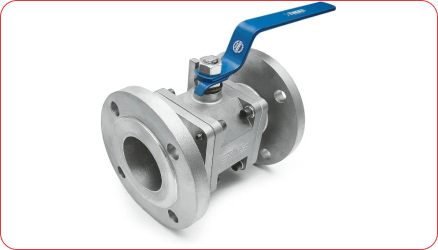
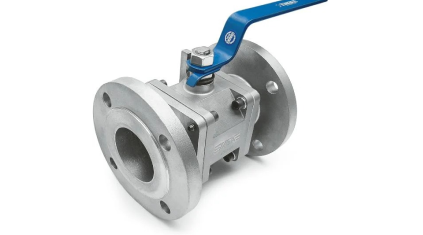
fixed images

Changed region(s): [[0.0, 0.0, 1.0, 1.0], [0.4917, 0.6851, 0.5532, 0.7745], [0.5839, 0.5362, 0.6147, 0.566]]

diff --git a/produtos/index.html b/produtos/index.html
@@ -39,6 +39,7 @@
     :where(.wp-block-columns.is-layout-flex){gap: 2em;}:where(.wp-block-columns.is-layout-grid){gap: 2em;}
     :root :where(.wp-block-pullquote){font-size: 1.5em;line-height: 1.6;}
 </style>
+<link rel="stylesheet" href="extra.css" class="css">
 <link rel='stylesheet' id='wp-components-css' href='../wp-includes/css/dist/components/style.min109c.css?ver=6.6.2' media='all' />
 <link rel='stylesheet' id='godaddy-styles-css' href='../wp-content/mu-plugins/vendor/wpex/godaddy-launch/includes/Dependencies/GoDaddy/Styles/build/latest4c56.css?ver=2.0.2' media='all' />
 <link rel='stylesheet' id='hello-elementor-css' href='../wp-content/themes/hello-elementor/style.minb12b.css?ver=3.1.1' media='all' />
@@ -63,6 +64,7 @@ media='all' />
 <link rel='stylesheet' id='elementor-icons-shared-0-css' href='../wp-content/plugins/elementor/assets/lib/font-awesome/css/fontawesome.min52d5.css?ver=5.15.3' media='all' />
 <link rel='stylesheet' id='elementor-icons-fa-solid-css' href='../wp-content/plugins/elementor/assets/lib/font-awesome/css/solid.min52d5.css?ver=5.15.3' media='all' />
 <link rel='stylesheet' id='elementor-icons-fa-brands-css' href='../wp-content/plugins/elementor/assets/lib/font-awesome/css/brands.min52d5.css?ver=5.15.3' media='all' />
+
 <link rel="preconnect" href="https://fonts.gstatic.com/" crossorigin>
 <link rel="https://api.w.org/" href="../wp-json/index.html" />
 <link rel="alternate" title="JSON" type="application/json" href="../wp-json/wp/v2/pages/111.json" />
@@ -73,6 +75,7 @@ media='all' />
 <link rel="alternate" title="oEmbed (JSON)" type="application/json+oembed" href="../wp-json/oembed/1.0/embed50c1.json?url=https%3A%2F%2Fcamaviacessorios.com%2Fprodutos%2F" />
 <link rel="alternate" title="oEmbed (XML)" type="text/xml+oembed" href="../wp-json/oembed/1.0/embed1c1c?url=https%3A%2F%2Fcamaviacessorios.com%2Fprodutos%2F&amp;format=xml" />
 <meta name="generator" content="Elementor 3.25.4; features: additional_custom_breakpoints, e_optimized_control_loading; settings: css_print_method-external, google_font-enabled, font_display-swap">
+
 <style>
     .e-con.e-parent:nth-of-type(n+4):not(.e-lazyloaded):not(.e-no-lazyload),
     				.e-con.e-parent:nth-of-type(n+4):not(.e-lazyloaded):not(.e-no-lazyload) * {
@@ -94,7 +97,7 @@ media='all' />
 <link rel="icon" href="../wp-content/uploads/2024/08/Group-188-1-150x150.png" sizes="32x32" />
 <link rel="icon" href="../wp-content/uploads/2024/08/Group-188-1-300x300.png" sizes="192x192" />
 <link rel="apple-touch-icon" href="../wp-content/uploads/2024/08/Group-188-1-300x300.png" />
-<meta name="msapplication-TileImage" content="https://camaviacessorios.com/wp-content/uploads/2024/08/Group-188-1-300x300.png" />
+<meta name="msapplication-TileImage" content="../wp-content/uploads/2024/08/Group-188-1-300x300.png" />
 </head>
 
 <body class="page-template page-template-elementor_header_footer page page-id-111 elementor-default elementor-template-full-width elementor-kit-15 elementor-page elementor-page-111">
@@ -112,7 +115,7 @@ media='all' />
                             <div class="elementor-element elementor-element-57261ef elementor-widget__width-initial elementor-widget-mobile__width-initial elementor-widget elementor-widget-image" data-id="57261ef" data-element_type="widget" data-widget_type="image.default">
                                 <div class="elementor-widget-container">
                                     <a href="../index.html">
-                                        <img fetchpriority="high" width="474" height="246" src="../wp-content/uploads/2024/08/Group.png" class="attachment-large size-large wp-image-8" alt="" sizes="(max-width: 474px) 100vw, 474px" /> </a>
+                                        <img fetchpriority="high" width="474" height="246" src="../wp-content/uploads/2024/08/Group.png" class="attachment-large size-large wp-image-8 logo-image" alt="" sizes="(max-width: 474px) 100vw, 474px" /> </a>
                                 </div>
                             </div>
                         </div>
@@ -222,7 +225,7 @@ media='all' />
                                     <div class="elementor-widget-wrap elementor-element-populated">
                                         <div class="elementor-element elementor-element-f40bcf5 elementor-widget elementor-widget-image" data-id="f40bcf5" data-element_type="widget" data-widget_type="image.default">
                                             <div class="elementor-widget-container">
-                                                <img decoding="async" width="438" height="250" src="../wp-content/uploads/2024/08/Rolamentos.png" class="attachment-large size-large wp-image-607" alt="" srcset="https://camaviacessorios.com/wp-content/uploads/2024/08/Rolamentos.png 438w, https://camaviacessorios.com/wp-content/uploads/2024/08/Rolamentos-300x171.png 300w"
+                                                <img decoding="async" width="438" height="250" src="../wp-content/uploads/2024/08/Rolamentos.png" class="attachment-large size-large wp-image-607" alt="" srcset="../wp-content/uploads/2024/08/Rolamentos.png 438w, ../wp-content/uploads/2024/08/Rolamentos-300x171.png 300w"
                                                 sizes="(max-width: 438px) 100vw, 438px" /> </div>
                                         </div>
                                         <div class="elementor-element elementor-element-6316478 elementor-widget__width-initial elementor-widget elementor-widget-text-editor" data-id="6316478" data-element_type="widget" data-widget_type="text-editor.default">
@@ -257,7 +260,7 @@ media='all' />
                                     <div class="elementor-widget-wrap elementor-element-populated">
                                         <div class="elementor-element elementor-element-a1210a6 elementor-widget elementor-widget-image" data-id="a1210a6" data-element_type="widget" data-widget_type="image.default">
                                             <div class="elementor-widget-container">
-                                                <img loading="lazy" decoding="async" width="438" height="250" src="../wp-content/uploads/2024/08/MANCAIS-1.png" class="attachment-large size-large wp-image-643" alt="" srcset="https://camaviacessorios.com/wp-content/uploads/2024/08/MANCAIS-1.png 438w, https://camaviacessorios.com/wp-content/uploads/2024/08/MANCAIS-1-300x171.png 300w"
+                                                <img loading="lazy" decoding="async" width="438" height="250" src="../wp-content/uploads/2024/08/MANCAIS-1.png" class="attachment-large size-large wp-image-643" alt="" srcset="../wp-content/uploads/2024/08/MANCAIS-1.png 438w, ../wp-content/uploads/2024/08/MANCAIS-1-300x171.png 300w"
                                                 sizes="(max-width: 438px) 100vw, 438px" /> </div>
                                         </div>
                                         <div class="elementor-element elementor-element-3a0df38 elementor-widget__width-initial elementor-widget elementor-widget-text-editor" data-id="3a0df38" data-element_type="widget" data-widget_type="text-editor.default">
@@ -278,7 +281,7 @@ media='all' />
                                     <div class="elementor-widget-wrap elementor-element-populated">
                                         <div class="elementor-element elementor-element-fa3ca88 elementor-widget elementor-widget-image" data-id="fa3ca88" data-element_type="widget" data-widget_type="image.default">
                                             <div class="elementor-widget-container">
-                                                <img loading="lazy" decoding="async" width="438" height="250" src="../wp-content/uploads/2024/08/Group-199.png" class="attachment-large size-large wp-image-633" alt="" srcset="https://camaviacessorios.com/wp-content/uploads/2024/08/Group-199.png 438w, https://camaviacessorios.com/wp-content/uploads/2024/08/Group-199-300x171.png 300w"
+                                                <img loading="lazy" decoding="async" width="438" height="250" src="../wp-content/uploads/2024/08/Group-199.png" class="attachment-large size-large wp-image-633" alt="" srcset="../wp-content/uploads/2024/08/Group-199.png 438w, ../wp-content/uploads/2024/08/Group-199-300x171.png 300w"
                                                 sizes="(max-width: 438px) 100vw, 438px" /> </div>
                                         </div>
                                         <div class="elementor-element elementor-element-e31baaf elementor-widget__width-initial elementor-widget elementor-widget-text-editor" data-id="e31baaf" data-element_type="widget" data-widget_type="text-editor.default">
@@ -303,7 +306,7 @@ media='all' />
                                     <div class="elementor-widget-wrap elementor-element-populated">
                                         <div class="elementor-element elementor-element-4d5e984 elementor-widget elementor-widget-image" data-id="4d5e984" data-element_type="widget" data-widget_type="image.default">
                                             <div class="elementor-widget-container">
-                                                <img loading="lazy" decoding="async" width="438" height="250" src="../wp-content/uploads/2024/08/Acoplamentos.png" class="attachment-large size-large wp-image-604" alt="" srcset="https://camaviacessorios.com/wp-content/uploads/2024/08/Acoplamentos.png 438w, https://camaviacessorios.com/wp-content/uploads/2024/08/Acoplamentos-300x171.png 300w"
+                                                <img loading="lazy" decoding="async" width="438" height="250" src="../wp-content/uploads/2024/08/Acoplamentos.png" class="attachment-large size-large wp-image-604" alt="" srcset="../wp-content/uploads/2024/08/Acoplamentos.png 438w, ../wp-content/uploads/2024/08/Acoplamentos-300x171.png 300w"
                                                 sizes="(max-width: 438px) 100vw, 438px" /> </div>
                                         </div>
                                         <div class="elementor-element elementor-element-694fe24 elementor-widget__width-initial elementor-widget elementor-widget-text-editor" data-id="694fe24" data-element_type="widget" data-widget_type="text-editor.default">
@@ -325,7 +328,7 @@ media='all' />
                                     <div class="elementor-widget-wrap elementor-element-populated">
                                         <div class="elementor-element elementor-element-99aaa3f elementor-widget elementor-widget-image" data-id="99aaa3f" data-element_type="widget" data-widget_type="image.default">
                                             <div class="elementor-widget-container">
-                                                <img loading="lazy" decoding="async" width="438" height="250" src="../wp-content/uploads/2024/08/Correias.png" class="attachment-large size-large wp-image-624" alt="" srcset="https://camaviacessorios.com/wp-content/uploads/2024/08/Correias.png 438w, https://camaviacessorios.com/wp-content/uploads/2024/08/Correias-300x171.png 300w"
+                                                <img loading="lazy" decoding="async" width="438" height="250" src="../wp-content/uploads/2024/08/Correias.png" class="attachment-large size-large wp-image-624" alt="" srcset="../wp-content/uploads/2024/08/Correias.png 438w, ../wp-content/uploads/2024/08/Correias-300x171.png 300w"
                                                 sizes="(max-width: 438px) 100vw, 438px" /> </div>
                                         </div>
                                         <div class="elementor-element elementor-element-dcbf5ba elementor-widget__width-initial elementor-widget elementor-widget-text-editor" data-id="dcbf5ba" data-element_type="widget" data-widget_type="text-editor.default">
@@ -346,7 +349,7 @@ media='all' />
                                     <div class="elementor-widget-wrap elementor-element-populated">
                                         <div class="elementor-element elementor-element-fe1763b elementor-widget elementor-widget-image" data-id="fe1763b" data-element_type="widget" data-widget_type="image.default">
                                             <div class="elementor-widget-container">
-                                                <img loading="lazy" decoding="async" width="438" height="250" src="../wp-content/uploads/2024/08/Correias-Transportadoras.png" class="attachment-large size-large wp-image-601" alt="" srcset="https://camaviacessorios.com/wp-content/uploads/2024/08/Correias-Transportadoras.png 438w, https://camaviacessorios.com/wp-content/uploads/2024/08/Correias-Transportadoras-300x171.png 300w"
+                                                <img loading="lazy" decoding="async" width="438" height="250" src="../wp-content/uploads/2024/08/Correias-Transportadoras.png" class="attachment-large size-large wp-image-601" alt="" srcset="../wp-content/uploads/2024/08/Correias-Transportadoras.png 438w, ../wp-content/uploads/2024/08/Correias-Transportadoras-300x171.png 300w"
                                                 sizes="(max-width: 438px) 100vw, 438px" /> </div>
                                         </div>
                                         <div class="elementor-element elementor-element-e62d7f3 elementor-widget__width-initial elementor-widget elementor-widget-text-editor" data-id="e62d7f3" data-element_type="widget" data-widget_type="text-editor.default">
@@ -372,7 +375,7 @@ media='all' />
                                     <div class="elementor-widget-wrap elementor-element-populated">
                                         <div class="elementor-element elementor-element-a49fcd6 elementor-widget elementor-widget-image" data-id="a49fcd6" data-element_type="widget" data-widget_type="image.default">
                                             <div class="elementor-widget-container">
-                                                <img loading="lazy" decoding="async" width="438" height="250" src="../wp-content/uploads/2024/08/Retentores-1.png" class="attachment-large size-large wp-image-625" alt="" srcset="https://camaviacessorios.com/wp-content/uploads/2024/08/Retentores-1.png 438w, https://camaviacessorios.com/wp-content/uploads/2024/08/Retentores-1-300x171.png 300w"
+                                                <img loading="lazy" decoding="async" width="438" height="250" src="../wp-content/uploads/2024/08/Retentores-1.png" class="attachment-large size-large wp-image-625" alt="" srcset="../wp-content/uploads/2024/08/Retentores-1.png 438w, ../wp-content/uploads/2024/08/Retentores-1-300x171.png 300w"
                                                 sizes="(max-width: 438px) 100vw, 438px" /> </div>
                                         </div>
                                         <div class="elementor-element elementor-element-ce3c13e elementor-widget__width-initial elementor-widget elementor-widget-text-editor" data-id="ce3c13e" data-element_type="widget" data-widget_type="text-editor.default">
@@ -393,7 +396,7 @@ media='all' />
                                     <div class="elementor-widget-wrap elementor-element-populated">
                                         <div class="elementor-element elementor-element-7559f94 elementor-widget elementor-widget-image" data-id="7559f94" data-element_type="widget" data-widget_type="image.default">
                                             <div class="elementor-widget-container">
-                                                <img loading="lazy" decoding="async" width="438" height="250" src="../wp-content/uploads/2024/08/Correias-1.png" class="attachment-large size-large wp-image-623" alt="" srcset="https://camaviacessorios.com/wp-content/uploads/2024/08/Correias-1.png 438w, https://camaviacessorios.com/wp-content/uploads/2024/08/Correias-1-300x171.png 300w"
+                                                <img loading="lazy" decoding="async" width="438" height="250" src="../wp-content/uploads/2024/08/Correias-1.png" class="attachment-large size-large wp-image-623" alt="" srcset="../wp-content/uploads/2024/08/Correias-1.png 438w, ../wp-content/uploads/2024/08/Correias-1-300x171.png 300w"
                                                 sizes="(max-width: 438px) 100vw, 438px" /> </div>
                                         </div>
                                         <div class="elementor-element elementor-element-e90f68c elementor-widget__width-initial elementor-widget elementor-widget-text-editor" data-id="e90f68c" data-element_type="widget" data-widget_type="text-editor.default">
@@ -414,7 +417,7 @@ media='all' />
                                     <div class="elementor-widget-wrap elementor-element-populated">
                                         <div class="elementor-element elementor-element-92c2696 elementor-widget elementor-widget-image" data-id="92c2696" data-element_type="widget" data-widget_type="image.default">
                                             <div class="elementor-widget-container">
-                                                <img loading="lazy" decoding="async" width="438" height="250" src="../wp-content/uploads/2024/08/Correntes-e-engrenagens.png" class="attachment-large size-large wp-image-599" alt="" srcset="https://camaviacessorios.com/wp-content/uploads/2024/08/Correntes-e-engrenagens.png 438w, https://camaviacessorios.com/wp-content/uploads/2024/08/Correntes-e-engrenagens-300x171.png 300w"
+                                                <img loading="lazy" decoding="async" width="438" height="250" src="../wp-content/uploads/2024/08/Correntes-e-engrenagens.png" class="attachment-large size-large wp-image-599" alt="" srcset="../wp-content/uploads/2024/08/Correntes-e-engrenagens.png 438w, ../wp-content/uploads/2024/08/Correntes-e-engrenagens-300x171.png 300w"
                                                 sizes="(max-width: 438px) 100vw, 438px" /> </div>
                                         </div>
                                         <div class="elementor-element elementor-element-f15db3d elementor-widget__width-initial elementor-widget elementor-widget-text-editor" data-id="f15db3d" data-element_type="widget" data-widget_type="text-editor.default">
@@ -439,7 +442,7 @@ media='all' />
                                     <div class="elementor-widget-wrap elementor-element-populated">
                                         <div class="elementor-element elementor-element-a901cca elementor-widget elementor-widget-image" data-id="a901cca" data-element_type="widget" data-widget_type="image.default">
                                             <div class="elementor-widget-container">
-                                                <img loading="lazy" decoding="async" width="438" height="250" src="../wp-content/uploads/2024/08/Polias.png" class="attachment-large size-large wp-image-598" alt="" srcset="https://camaviacessorios.com/wp-content/uploads/2024/08/Polias.png 438w, https://camaviacessorios.com/wp-content/uploads/2024/08/Polias-300x171.png 300w"
+                                                <img loading="lazy" decoding="async" width="438" height="250" src="../wp-content/uploads/2024/08/Polias.png" class="attachment-large size-large wp-image-598" alt="" srcset="../wp-content/uploads/2024/08/Polias.png 438w, ../wp-content/uploads/2024/08/Polias-300x171.png 300w"
                                                 sizes="(max-width: 438px) 100vw, 438px" /> </div>
                                         </div>
                                         <div class="elementor-element elementor-element-8facc7f elementor-widget__width-initial elementor-widget elementor-widget-text-editor" data-id="8facc7f" data-element_type="widget" data-widget_type="text-editor.default">
@@ -460,7 +463,7 @@ media='all' />
                                     <div class="elementor-widget-wrap elementor-element-populated">
                                         <div class="elementor-element elementor-element-ba92cce elementor-widget elementor-widget-image" data-id="ba92cce" data-element_type="widget" data-widget_type="image.default">
                                             <div class="elementor-widget-container">
-                                                <img loading="lazy" decoding="async" width="438" height="250" src="../wp-content/uploads/2024/08/Group-200.png" class="attachment-large size-large wp-image-634" alt="" srcset="https://camaviacessorios.com/wp-content/uploads/2024/08/Group-200.png 438w, https://camaviacessorios.com/wp-content/uploads/2024/08/Group-200-300x171.png 300w"
+                                                <img loading="lazy" decoding="async" width="438" height="250" src="../wp-content/uploads/2024/08/Group-200.png" class="attachment-large size-large wp-image-634" alt="" srcset="../wp-content/uploads/2024/08/Group-200.png 438w, ../wp-content/uploads/2024/08/Group-200-300x171.png 300w"
                                                 sizes="(max-width: 438px) 100vw, 438px" /> </div>
                                         </div>
                                         <div class="elementor-element elementor-element-6f15c57 elementor-widget__width-initial elementor-widget elementor-widget-text-editor" data-id="6f15c57" data-element_type="widget" data-widget_type="text-editor.default">
@@ -481,7 +484,7 @@ media='all' />
                                     <div class="elementor-widget-wrap elementor-element-populated">
                                         <div class="elementor-element elementor-element-508864c elementor-widget elementor-widget-image" data-id="508864c" data-element_type="widget" data-widget_type="image.default">
                                             <div class="elementor-widget-container">
-                                                <img loading="lazy" decoding="async" width="438" height="250" src="../wp-content/uploads/2024/08/Chapas-e-Tubos.png" class="attachment-large size-large wp-image-596" alt="" srcset="https://camaviacessorios.com/wp-content/uploads/2024/08/Chapas-e-Tubos.png 438w, https://camaviacessorios.com/wp-content/uploads/2024/08/Chapas-e-Tubos-300x171.png 300w"
+                                                <img loading="lazy" decoding="async" width="438" height="250" src="../wp-content/uploads/2024/08/Chapas-e-Tubos.png" class="attachment-large size-large wp-image-596" alt="" srcset="../wp-content/uploads/2024/08/Chapas-e-Tubos.png 438w, ../wp-content/uploads/2024/08/Chapas-e-Tubos-300x171.png 300w"
                                                 sizes="(max-width: 438px) 100vw, 438px" /> </div>
                                         </div>
                                         <div class="elementor-element elementor-element-0516281 elementor-widget__width-initial elementor-widget elementor-widget-text-editor" data-id="0516281" data-element_type="widget" data-widget_type="text-editor.default">
@@ -506,7 +509,7 @@ media='all' />
                                     <div class="elementor-widget-wrap elementor-element-populated">
                                         <div class="elementor-element elementor-element-e3b6810 elementor-widget elementor-widget-image" data-id="e3b6810" data-element_type="widget" data-widget_type="image.default">
                                             <div class="elementor-widget-container">
-                                                <img loading="lazy" decoding="async" width="438" height="250" src="../wp-content/uploads/2024/08/Trilhos-e-guias-lineares.png" class="attachment-large size-large wp-image-595" alt="" srcset="https://camaviacessorios.com/wp-content/uploads/2024/08/Trilhos-e-guias-lineares.png 438w, https://camaviacessorios.com/wp-content/uploads/2024/08/Trilhos-e-guias-lineares-300x171.png 300w"
+                                                <img loading="lazy" decoding="async" width="438" height="250" src="../wp-content/uploads/2024/08/Trilhos-e-guias-lineares.png" class="attachment-large size-large wp-image-595" alt="" srcset="../wp-content/uploads/2024/08/Trilhos-e-guias-lineares.png 438w, ../wp-content/uploads/2024/08/Trilhos-e-guias-lineares-300x171.png 300w"
                                                 sizes="(max-width: 438px) 100vw, 438px" /> </div>
                                         </div>
                                         <div class="elementor-element elementor-element-4b8d057 elementor-widget__width-initial elementor-widget elementor-widget-text-editor" data-id="4b8d057" data-element_type="widget" data-widget_type="text-editor.default">
@@ -527,7 +530,7 @@ media='all' />
                                     <div class="elementor-widget-wrap elementor-element-populated">
                                         <div class="elementor-element elementor-element-1f90ca3 elementor-widget elementor-widget-image" data-id="1f90ca3" data-element_type="widget" data-widget_type="image.default">
                                             <div class="elementor-widget-container">
-                                                <img loading="lazy" decoding="async" width="438" height="250" src="../wp-content/uploads/2024/08/Graxas-e-lubrificantes.png" class="attachment-large size-large wp-image-594" alt="" srcset="https://camaviacessorios.com/wp-content/uploads/2024/08/Graxas-e-lubrificantes.png 438w, https://camaviacessorios.com/wp-content/uploads/2024/08/Graxas-e-lubrificantes-300x171.png 300w"
+                                                <img loading="lazy" decoding="async" width="438" height="250" src="../wp-content/uploads/2024/08/Graxas-e-lubrificantes.png" class="attachment-large size-large wp-image-594" alt="" srcset="../wp-content/uploads/2024/08/Graxas-e-lubrificantes.png 438w, ../wp-content/uploads/2024/08/Graxas-e-lubrificantes-300x171.png 300w"
                                                 sizes="(max-width: 438px) 100vw, 438px" /> </div>
                                         </div>
                                         <div class="elementor-element elementor-element-7a3cfb7 elementor-widget__width-initial elementor-widget elementor-widget-text-editor" data-id="7a3cfb7" data-element_type="widget" data-widget_type="text-editor.default">
@@ -548,7 +551,7 @@ media='all' />
                                     <div class="elementor-widget-wrap elementor-element-populated">
                                         <div class="elementor-element elementor-element-c19e8d4 elementor-widget elementor-widget-image" data-id="c19e8d4" data-element_type="widget" data-widget_type="image.default">
                                             <div class="elementor-widget-container">
-                                                <img loading="lazy" decoding="async" width="438" height="250" src="../wp-content/uploads/2024/08/Mangueiras-e-Mangotes.png" class="attachment-large size-large wp-image-593" alt="" srcset="https://camaviacessorios.com/wp-content/uploads/2024/08/Mangueiras-e-Mangotes.png 438w, https://camaviacessorios.com/wp-content/uploads/2024/08/Mangueiras-e-Mangotes-300x171.png 300w"
+                                                <img loading="lazy" decoding="async" width="438" height="250" src="../wp-content/uploads/2024/08/Mangueiras-e-Mangotes.png" class="attachment-large size-large wp-image-593" alt="" srcset="../wp-content/uploads/2024/08/Mangueiras-e-Mangotes.png 438w, ../wp-content/uploads/2024/08/Mangueiras-e-Mangotes-300x171.png 300w"
                                                 sizes="(max-width: 438px) 100vw, 438px" /> </div>
                                         </div>
                                         <div class="elementor-element elementor-element-623914f elementor-widget__width-initial elementor-widget elementor-widget-text-editor" data-id="623914f" data-element_type="widget" data-widget_type="text-editor.default">
@@ -580,7 +583,7 @@ media='all' />
                                     <div class="elementor-widget-wrap elementor-element-populated">
                                         <div class="elementor-element elementor-element-65c8820 elementor-widget elementor-widget-image" data-id="65c8820" data-element_type="widget" data-widget_type="image.default">
                                             <div class="elementor-widget-container">
-                                                <img loading="lazy" decoding="async" width="438" height="250" src="../wp-content/uploads/2024/08/Group-198-2.png" class="attachment-large size-large wp-image-636" alt="" srcset="https://camaviacessorios.com/wp-content/uploads/2024/08/Group-198-2.png 438w, https://camaviacessorios.com/wp-content/uploads/2024/08/Group-198-2-300x171.png 300w"
+                                                <img loading="lazy" decoding="async" width="438" height="250" src="../wp-content/uploads/2024/08/Group-198-2.png" class="attachment-large size-large wp-image-636" alt="" srcset="../wp-content/uploads/2024/08/Group-198-2.png 438w, ../wp-content/uploads/2024/08/Group-198-2-300x171.png 300w"
                                                 sizes="(max-width: 438px) 100vw, 438px" /> </div>
                                         </div>
                                         <div class="elementor-element elementor-element-994ff62 elementor-widget__width-initial elementor-widget elementor-widget-text-editor" data-id="994ff62" data-element_type="widget" data-widget_type="text-editor.default">
@@ -601,7 +604,7 @@ media='all' />
                                     <div class="elementor-widget-wrap elementor-element-populated">
                                         <div class="elementor-element elementor-element-b86e256 elementor-widget elementor-widget-image" data-id="b86e256" data-element_type="widget" data-widget_type="image.default">
                                             <div class="elementor-widget-container">
-                                                <img loading="lazy" decoding="async" width="438" height="250" src="../wp-content/uploads/2024/08/Cabos-Eletricos.png" class="attachment-large size-large wp-image-591" alt="" srcset="https://camaviacessorios.com/wp-content/uploads/2024/08/Cabos-Eletricos.png 438w, https://camaviacessorios.com/wp-content/uploads/2024/08/Cabos-Eletricos-300x171.png 300w"
+                                                <img loading="lazy" decoding="async" width="438" height="250" src="../wp-content/uploads/2024/08/Cabos-Eletricos.png" class="attachment-large size-large wp-image-591" alt=""
                                                 sizes="(max-width: 438px) 100vw, 438px" /> </div>
                                         </div>
                                         <div class="elementor-element elementor-element-e39d8d1 elementor-widget__width-initial elementor-widget elementor-widget-text-editor" data-id="e39d8d1" data-element_type="widget" data-widget_type="text-editor.default">
@@ -622,7 +625,7 @@ media='all' />
                                     <div class="elementor-widget-wrap elementor-element-populated">
                                         <div class="elementor-element elementor-element-52bf034 elementor-widget elementor-widget-image" data-id="52bf034" data-element_type="widget" data-widget_type="image.default">
                                             <div class="elementor-widget-container">
-                                                <img loading="lazy" decoding="async" width="438" height="250" src="../wp-content/uploads/2024/08/Motores-e-Bombas.png" class="attachment-large size-large wp-image-590" alt="" srcset="https://camaviacessorios.com/wp-content/uploads/2024/08/Motores-e-Bombas.png 438w, https://camaviacessorios.com/wp-content/uploads/2024/08/Motores-e-Bombas-300x171.png 300w"
+                                                <img loading="lazy" decoding="async" width="438" height="250" src="../wp-content/uploads/2024/08/Motores-e-Bombas.png" class="attachment-large size-large wp-image-590" alt="" srcset="../wp-content/uploads/2024/08/Motores-e-Bombas.png 438w, ../wp-content/uploads/2024/08/Motores-e-Bombas-300x171.png 300w"
                                                 sizes="(max-width: 438px) 100vw, 438px" /> </div>
                                         </div>
                                         <div class="elementor-element elementor-element-5b55a3a elementor-widget__width-initial elementor-widget elementor-widget-text-editor" data-id="5b55a3a" data-element_type="widget" data-widget_type="text-editor.default">
@@ -695,17 +698,17 @@ media='all' />
                                     <div class="elementor-widget-container">
                                         <div class="elementor-social-icons-wrapper elementor-grid">
                                             <span class="elementor-grid-item">
-					<a class="elementor-icon elementor-social-icon elementor-social-icon-whatsapp elementor-animation-grow elementor-repeater-item-aa1bef5" href="https://api.whatsapp.com/send?phone=5511992554945" target="_blank">
+					<a class="elementor-icon elementor-social-icon elementor-social-icon-whatsapp elementor-animation-grow elementor-repeater-item-aa1bef5" href="https://api.whatsapp.com/send?phone=55123456789" target="_blank">
 						<span class="elementor-screen-only">Whatsapp</span>
                                             <i class="fab fa-whatsapp"></i> </a>
                                             </span>
                                             <span class="elementor-grid-item">
-					<a class="elementor-icon elementor-social-icon elementor-social-icon-instagram elementor-animation-grow elementor-repeater-item-555bea7" href="https://www.instagram.com/grupo_camavi/" target="_blank">
+					<a class="elementor-icon elementor-social-icon elementor-social-icon-instagram elementor-animation-grow elementor-repeater-item-555bea7" href="https://www.instagram.com/dmtequipament/" target="_blank">
 						<span class="elementor-screen-only">Instagram</span>
                                             <i class="fab fa-instagram"></i> </a>
                                             </span>
                                             <span class="elementor-grid-item">
-					<a class="elementor-icon elementor-social-icon elementor-social-icon-linkedin elementor-animation-grow elementor-repeater-item-cb91098" href="https://www.linkedin.com/company/camavi-acessórios-industriais/" target="_blank">
+					<a class="elementor-icon elementor-social-icon elementor-social-icon-linkedin elementor-animation-grow elementor-repeater-item-cb91098" href="https://www.facebook.com/profile.php?id=61569425281864" target="_blank">
 						<span class="elementor-screen-only">Linkedin</span>
                                             <i class="fab fa-linkedin"></i> </a>
                                             </span>
@@ -719,7 +722,7 @@ media='all' />
                                 </div>
                                 <div class="elementor-element elementor-element-5d82176 elementor-widget__width-initial elementor-widget-mobile__width-initial elementor-widget elementor-widget-text-editor" data-id="5d82176" data-element_type="widget" data-widget_type="text-editor.default">
                                     <div class="elementor-widget-container">
-                                        <p><span style="color: #ffffff;"><u>(11) 2339 0490</u></span></p>
+                                        <p><span style="color: #ffffff;"><u>(12) 3456 7890</u></span></p>
                                         <p><span style="color: #ffffff;">Av. Eng. Caetano Álvares, 4646 &#8211; Imirim São Paulo &#8211; SP</span></p>
                                     </div>
                                 </div>

diff --git a/produtos/extra.css b/produtos/extra.css
@@ -1,0 +1,11 @@
+img {
+    border-radius: 20px !important; 
+    outline-color: red;
+    outline-style: solid;
+    outline-width: 1.75px;
+}
+
+.logo-image {
+    outline: none;
+    border-radius: 0;
+}
